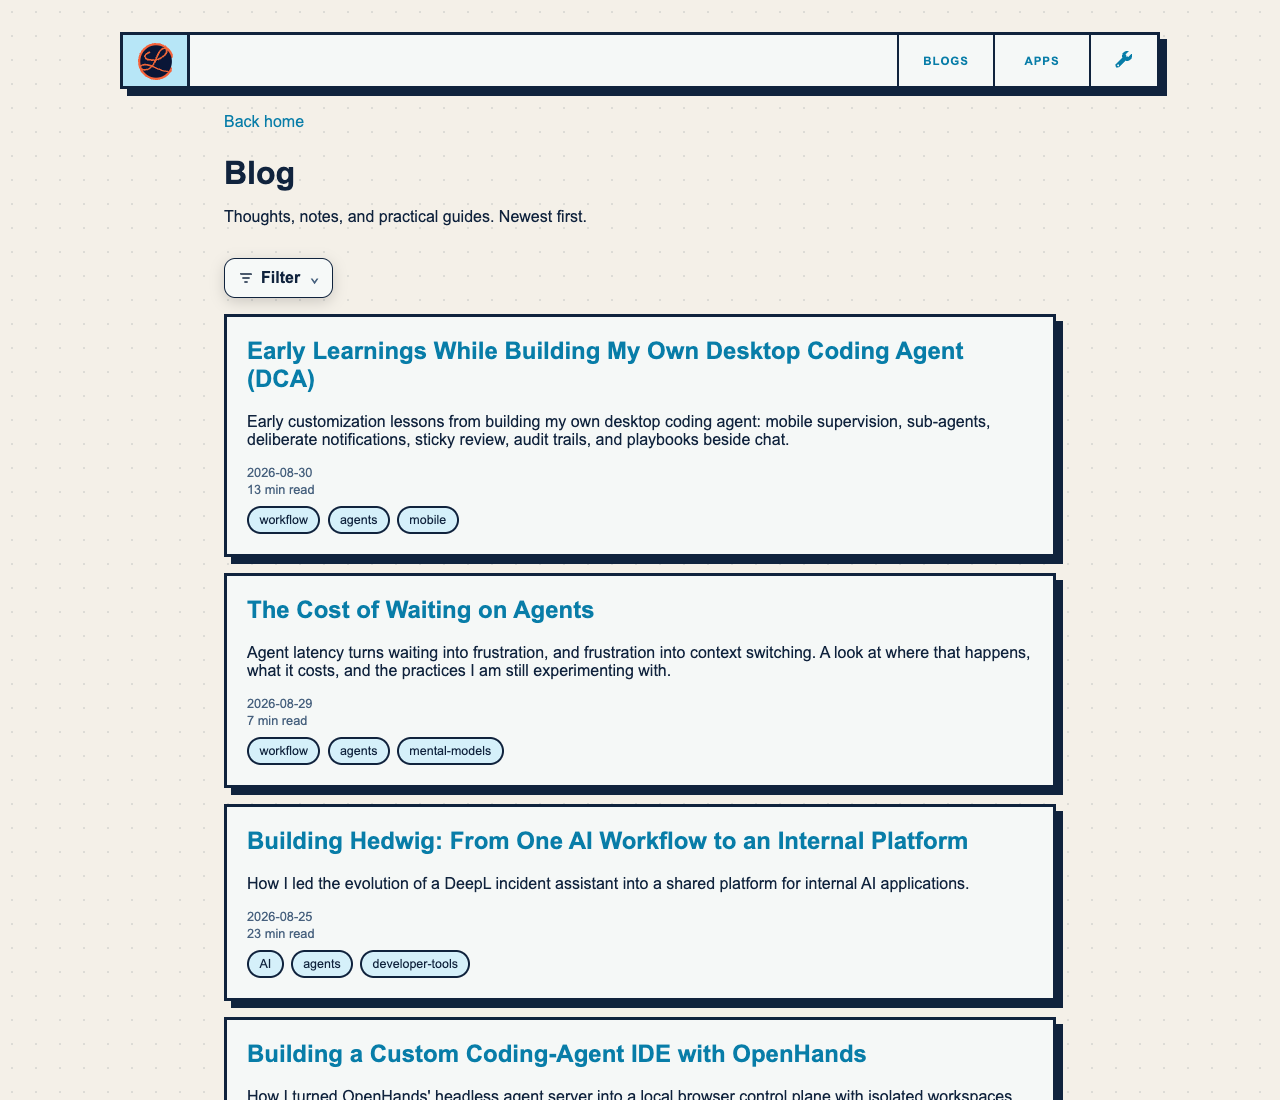
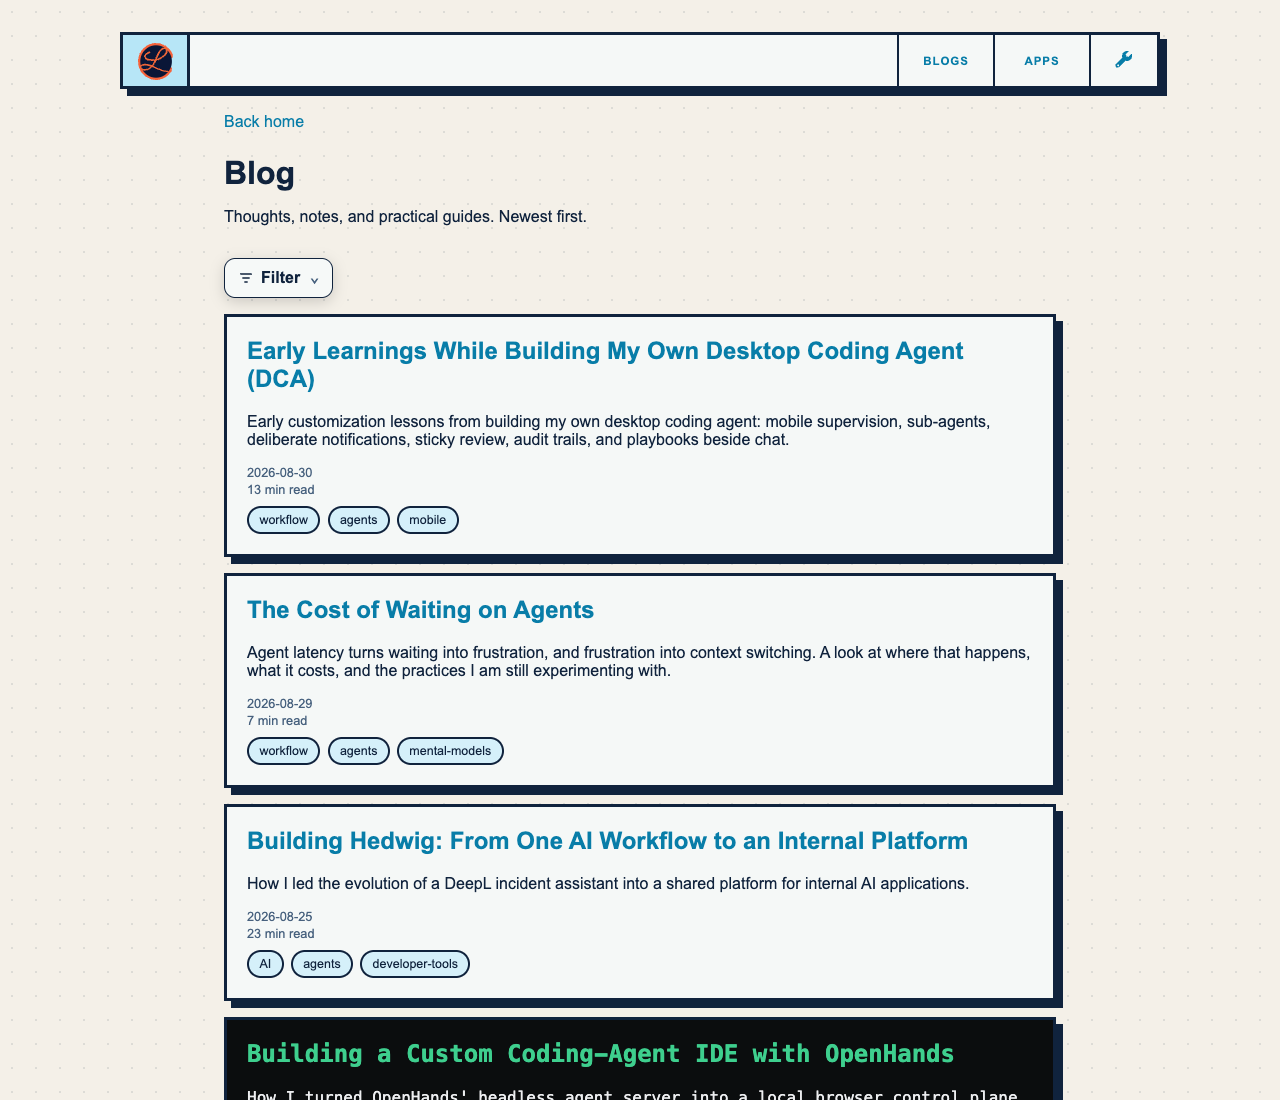
Retain black and green terminal styling for guide cards

Changed region(s): [[0.1562, 0.9273, 0.8438, 1.0]]

diff --git a/src/features/blog/routes/BlogIndexRoute.tsx b/src/features/blog/routes/BlogIndexRoute.tsx
@@ -7,6 +7,7 @@ import TagList from '../../../components/markdown/TagList'
 import { getBlogFeed } from '../feed'
 import GuideRepoReference from '../../guides/components/GuideRepoReference'
 import styles from '../blog.module.css'
+import guideStyles from '../../guides/guides-index.module.css'
 
 export default function BlogIndexRoute(): ReactElement {
   const posts = getBlogFeed()
@@ -135,7 +136,7 @@ export default function BlogIndexRoute(): ReactElement {
         ) : null}
         <div className={styles.postList}>
           {visiblePosts.map((post) => (
-            <article key={post.href} className={styles.postCard}>
+            <article key={post.href} className={`${styles.postCard} ${post.kind === 'Guide' ? `${guideStyles.guideCard} ${styles.feedGuide}` : ''}`}>
               <h2>
                 <Link to={post.href}>{post.title}</Link>
               </h2>

diff --git a/src/features/blog/blog.module.css b/src/features/blog/blog.module.css
@@ -513,3 +513,28 @@
     grid-row: 1;
   }
 }
+
+/* Guides keep their terminal palette inside the shared chronological feed. */
+.postCard.feedGuide {
+  background: var(--term-bg);
+  color: var(--term-ink);
+  --link-color: var(--term-accent);
+  --link-hover-color: var(--term-accent-alt);
+}
+
+.feedGuide .indexMeta {
+  color: #a3aaa6;
+}
+
+.feedGuide .tag {
+  border-color: var(--term-line);
+  background: var(--term-chrome);
+  color: var(--term-accent-alt);
+}
+
+.feedGuide .tagButton:hover,
+.feedGuide .selectedTag {
+  border-color: var(--term-accent);
+  background: var(--term-accent);
+  color: var(--term-bg);
+}
